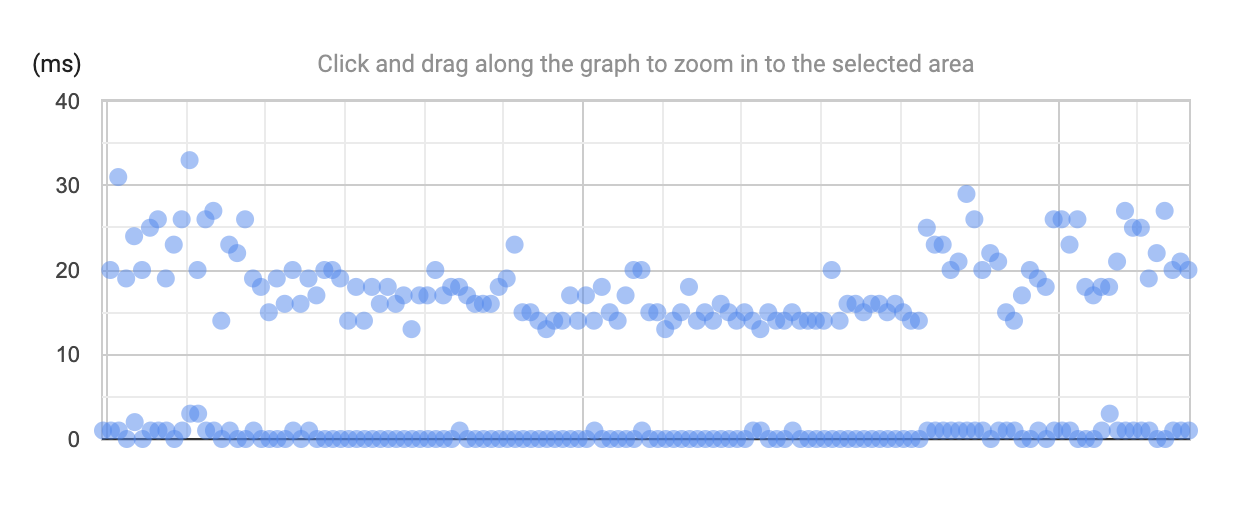
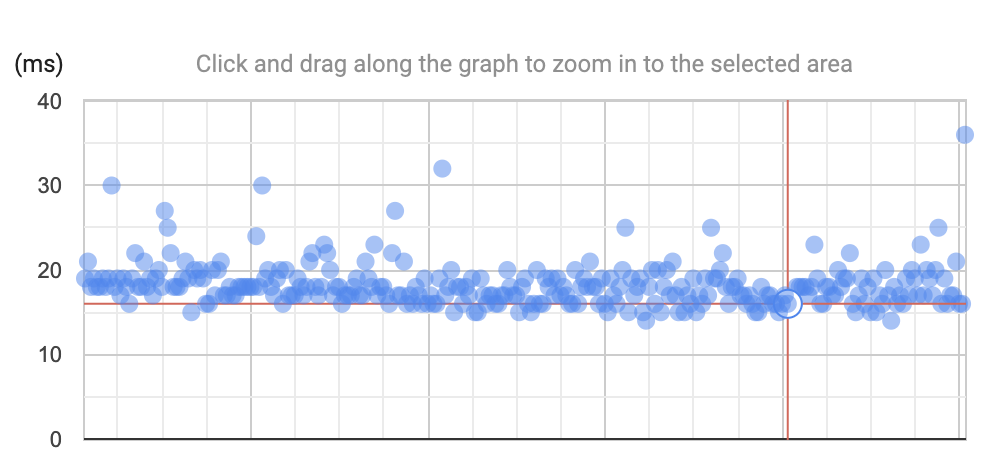
Done

Changed region(s): [[0.0, 0.089, 0.9841, 0.9492], [0.123, 0.2966, 0.1845, 0.3263], [0.0308, 0.9195, 0.0615, 0.9492]]

diff --git a/README.md b/README.md
@@ -4,9 +4,21 @@ This repository compares latencies between connection via proxy and connection v
 
 ## Result
 
+* Proxy
+  * Min: At least 10ms
+  * Avg: 20ms
+  * Max: Around 40ms in this time span, but there can be peaks more than that with several reasons (ex. the credential of Cloud SQL is expired etc)
+
 ![proxy](./images/proxy.png)
 
-## First of all
+* Private IP
+  * Min: At least 7ms
+  * Avg: 7ms
+  * Max: Around1 15ms in this time span, but there can be peaks more than that with several reasons (ex. a pod creation of the new SQL connection etc)
+
+![private_ip](./images/private_ip.png)
+
+## Examine the results by yourself
 
 ### Requirements
 
@@ -54,11 +66,35 @@ project = "[Your Project ID]"
 
 ## GKE
 
+### Connect to cluster
+
 ```bash
 gcloud container clusters get-credentials my-gke-cluster
 ```
 
-Create a secret from credential file (which is a credential json file for a service account you must create)
+### Create a service account as a secret
+
+This step creates a service account to connect with Cloud SQL using proxy. If you want to use only Private IP connection, you can skip this step.
+
+* SA NAME: Service Account Name
+  * ex) proxy-db
+* SA DISPLAY NAME: Service Display Name
+  * ex) proxy-db
+
+```bash
+gcloud beta iam service-accounts create [SA NAME] \
+ --display-name "[SA DISPLAY NAME]" \
+ --project [Your Project ID]
+
+gcloud projects add-iam-policy-binding [Your Project ID] \
+   --member serviceAccount:[SA NAME]@[Your Project ID].iam.gserviceaccount.com \
+   --role roles/cloudsql.admin
+
+gcloud iam service-accounts keys create ./k8s/credentials.json \
+   --iam-account [SA NAME]@[YOur Project ID].iam.gserviceaccount.com
+```
+
+Create a secret from credential file (json)
 
 ```bash
 cd k8s
@@ -67,13 +103,41 @@ kubectl create secret generic cloudsql-instance-credentials --from-file=./creden
 
 ### Deploy k8s with proxy
 
+### Before deployment
+
+Before deployment, replace the below values in `k8s_proxy.yaml`:
+
+* [Your Project ID]: Your Project ID
+* [INSTANCE_CONNECTION_NAME]: Your can check it on browser like below:
+
+![cloud sql info](./images/cloud_sql_info.png)
+
+### Deploy
+
 ```bash
 kubectl apply -f k8s_proxy.yaml
 ```
 
-or
-
 ### Deploy k8s with private IP
+
+### Before deployment
+
+Before deployment, replace the below values in `k8s_private_ip.yaml`:
+
+* [Your Project ID]: Your Project ID
+* [DB_PRIVATE_IP]: Private IP address of your Cloud SQL Instance
+* [ROOT_USER_PASSWORD]: Password for database root user
+  * you can see it after you run `terraform apply` with something like this:
+
+```bash
+Apply complete! Resources: 0 added, 0 changed, 0 destroyed.
+
+Outputs:
+
+sql_password_root = [root user password]
+```
+
+#### Deploy
 
 ```bash
 kubectl apply -f k8s_private_ip.yaml
